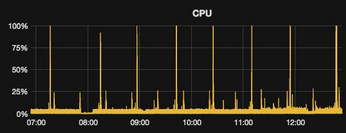
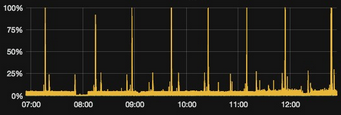
k8s core fix

diff --git a/k8s/zero_downtime_node/app.js b/k8s/zero_downtime_node/app.js
@@ -10,10 +10,11 @@ let ready = false;
 // --------------------------------------------------- //
 
 app.get('/', (req, res) => {
-  // this setTimeout simulates a request 0.5 second to respond
-  setTimeout(() => {
-   res.send('OK ');
-  }, 500);
+  let x = 0.0001;
+  for (let i = 0; i <= 1000000; i++) {
+    x += Math.sqrt(x);
+  }
+  res.send('OK ');
 });
 
 

diff --git a/tutorials/k8s_pod_deep_dive.md b/tutorials/k8s_pod_deep_dive.md
@@ -601,6 +601,10 @@ kubectl taint nodes ip-192-168-155-36.us-east-2.compute.internal gpu=true:NoSche
 
 ## Horizontal Pod autoscaling
 
+> [!NOTE]
+> Before starting make sure the [Metrics Server](https://github.com/kubernetes-sigs/metrics-server#readme) is installed on your cluster.
+
+
 A **HorizontalPodAutoscaler** (HPA for short) automatically updates the number of Pods to match demand, usually in a Deployment or StatefulSet.
 
 The HorizontalPodAutoscaler controller periodically (by default every 15 seconds) adjusts the desired scale of its target (for example, a Deployment) to match observed metrics such as average CPU utilization, average memory utilization, or any other custom metric you specify.
@@ -722,7 +726,8 @@ The code can be found in `k8s/zero_downtime_node` (a simple Nodejs webserver).
 4. Increase the webserver's Deployment replicas while watching the `load-generator` pod logs. Did you lose requests for a short moment? Why?
 5. Decrease the number of replicas, lost requests again? Why? 
 6. Define a `liveness` and `readiness` probes in your Deployment. Change the server code in the `/ready` endpoint, and the `SIGTERM` handler to support zero down-time during scale up/down. You may also want to specify the `terminationGracePeriodSeconds` entry for the container.
-7. Test again and make sure you don't lose even a single requests during **scale up and scale down** events.
+8. Create a horizontal pod autoscaler (HPA) for the deployment. Base your HPA on CPU utilization, set the `resources.requests.cpu` and `resources.limits.cpu` entries `300m`. Maximum number of pods to 10.
+7. Generate some load as described in step 3. Let the HPA to increase and decrease the number of pods. Make sure you don't lose even a single requests during **scale up and scale down** events.
 
 **Bonus**: Make sure you are able to perform a rolling update with zero downtime, during traffic load. 
 
